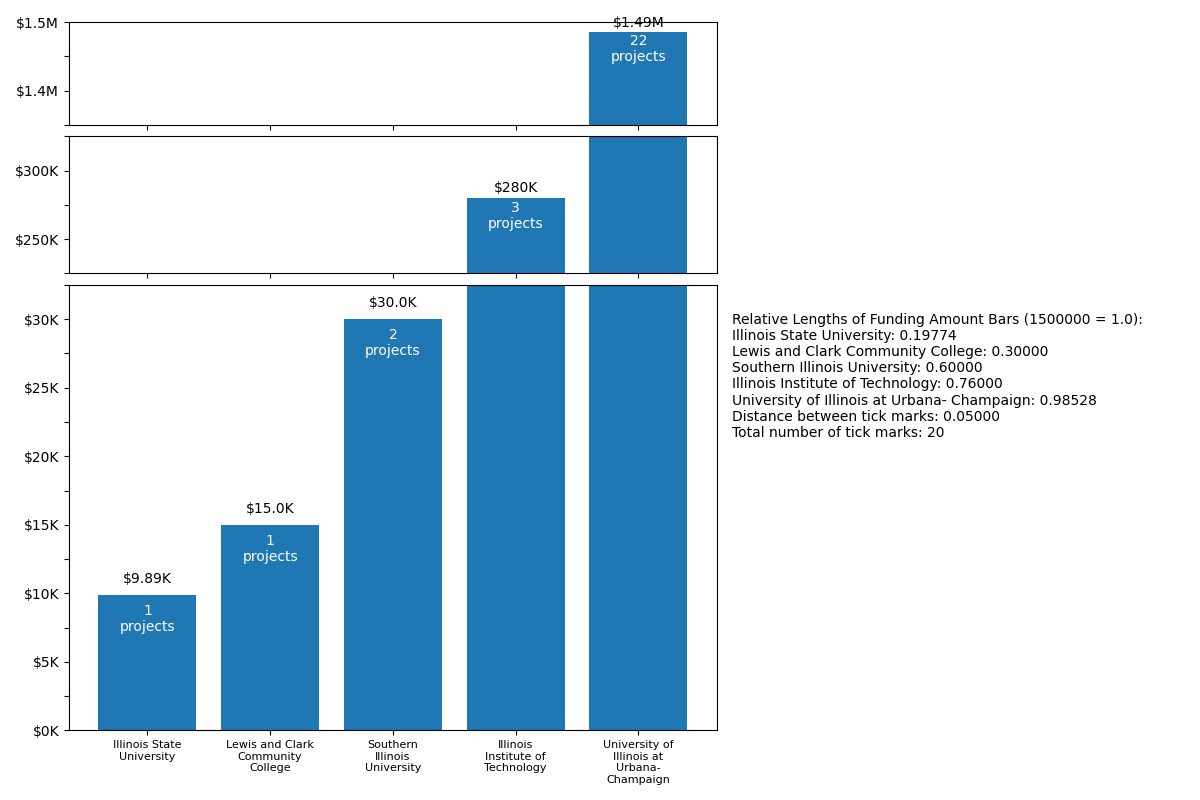
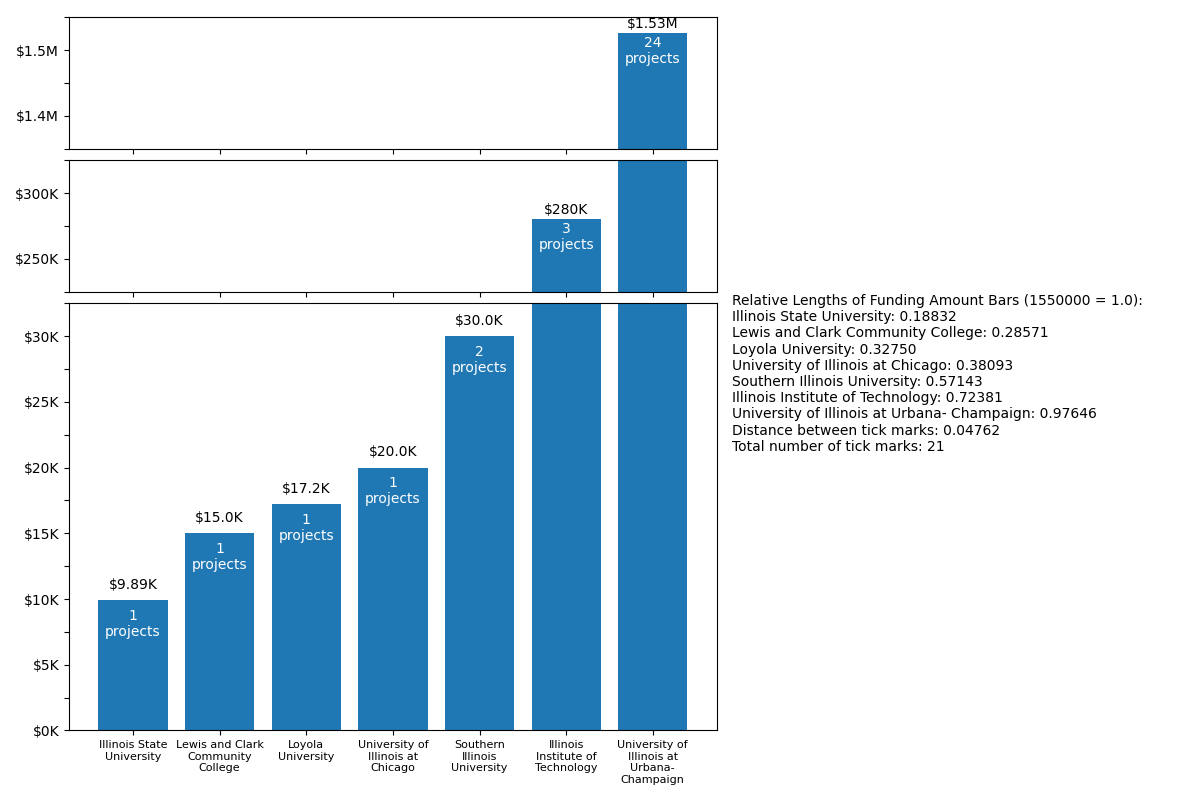
data tweaks

diff --git a/datavis.py b/datavis.py
@@ -92,6 +92,8 @@ inst_grps = inst_grps[~inst_grps['Institution'].isin(["Basil's Harvest", "Nation
 # add line breaks to institution for better visualization
 inst_grps['Institution'] = inst_grps['Institution'].apply(wrap_label)
 
+print(inst_grps.to_string())
+
 
 # # new DF (from proj_data and proj_data 2):
 # # group each by "PI Affiliated Organization" and aggregate for count of projects and sum of 'Funding Amount'
@@ -157,7 +159,7 @@ incr_2 = 25000.0
 units_2 = (max_2 - min_2) / incr_2
 
 min_3 = 1350000
-max_3 = 1500000
+max_3 = 1550000
 incr_3 = 50000.0
 units_3 = (max_3 - min_3) / incr_3
 
